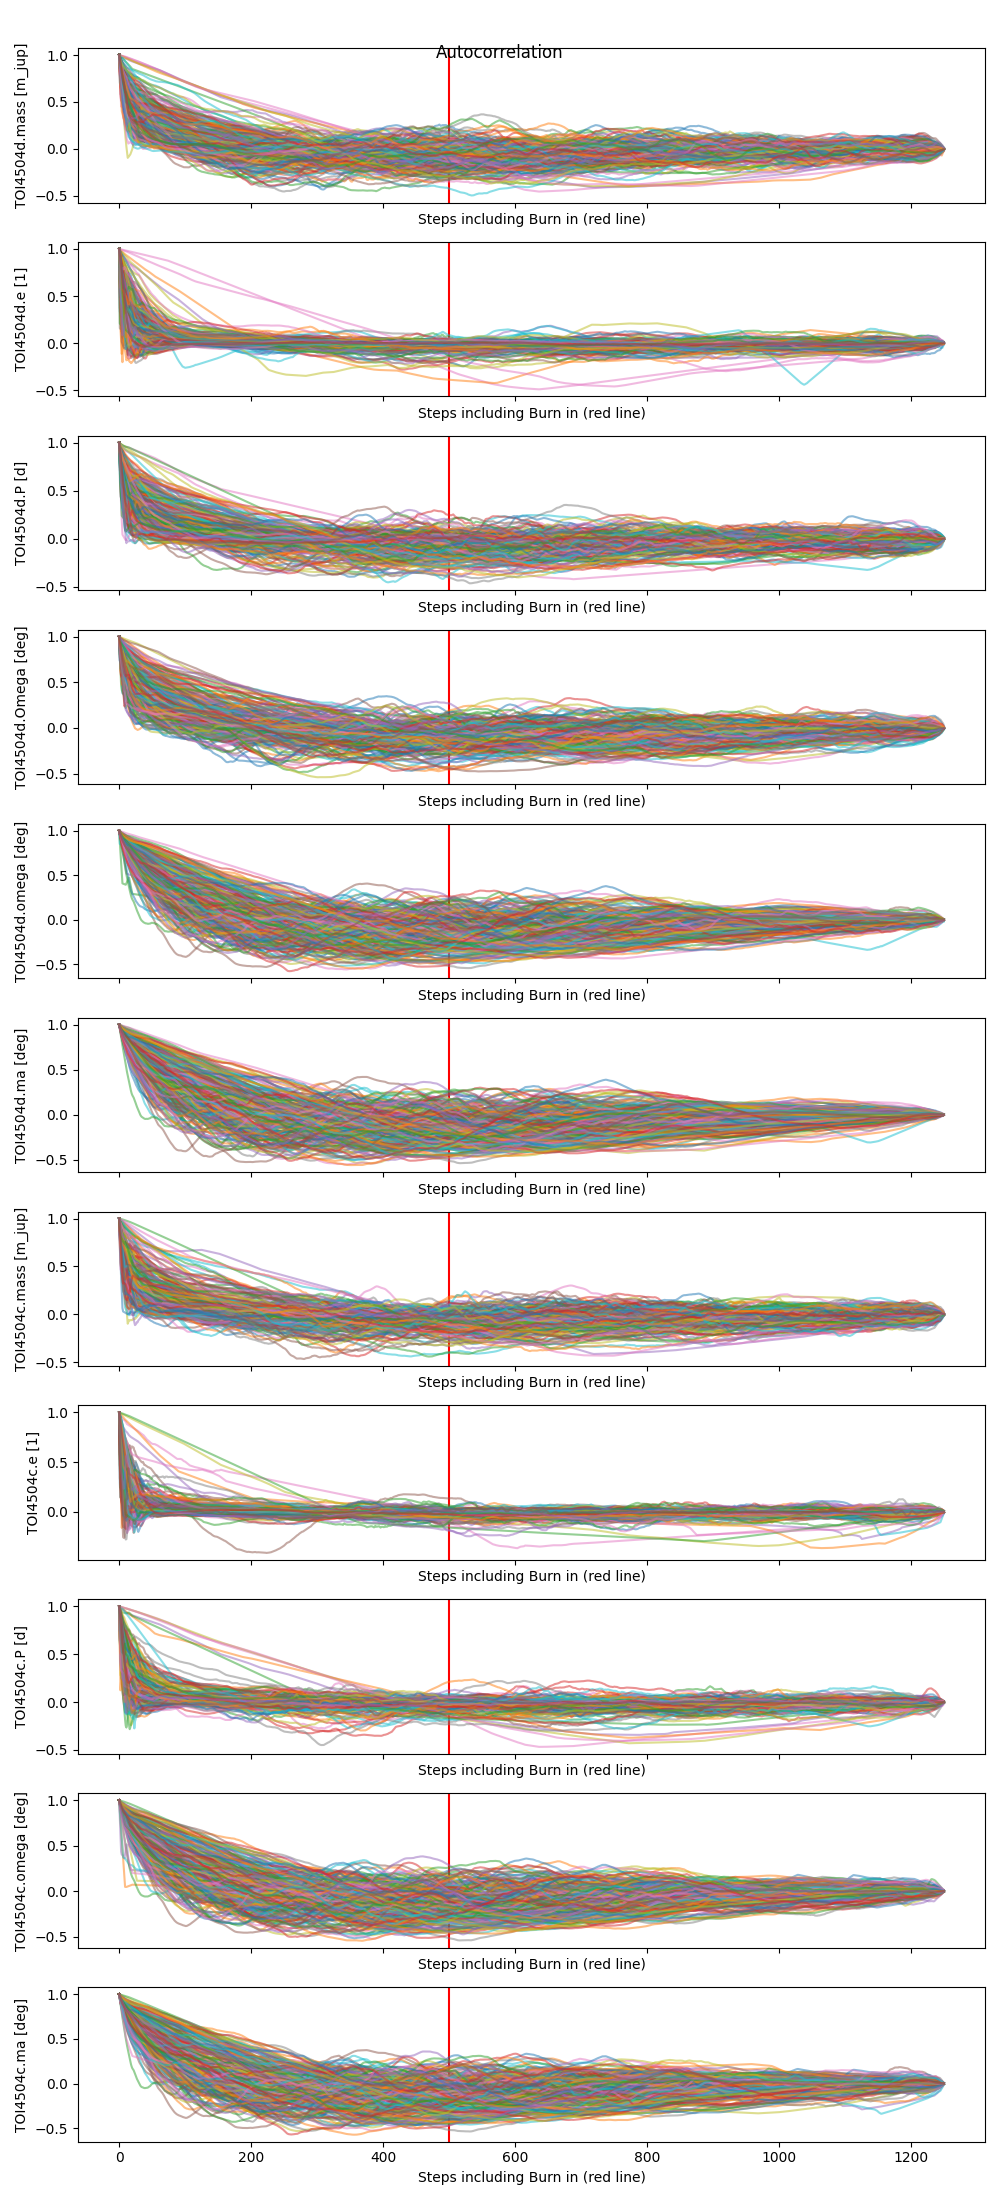
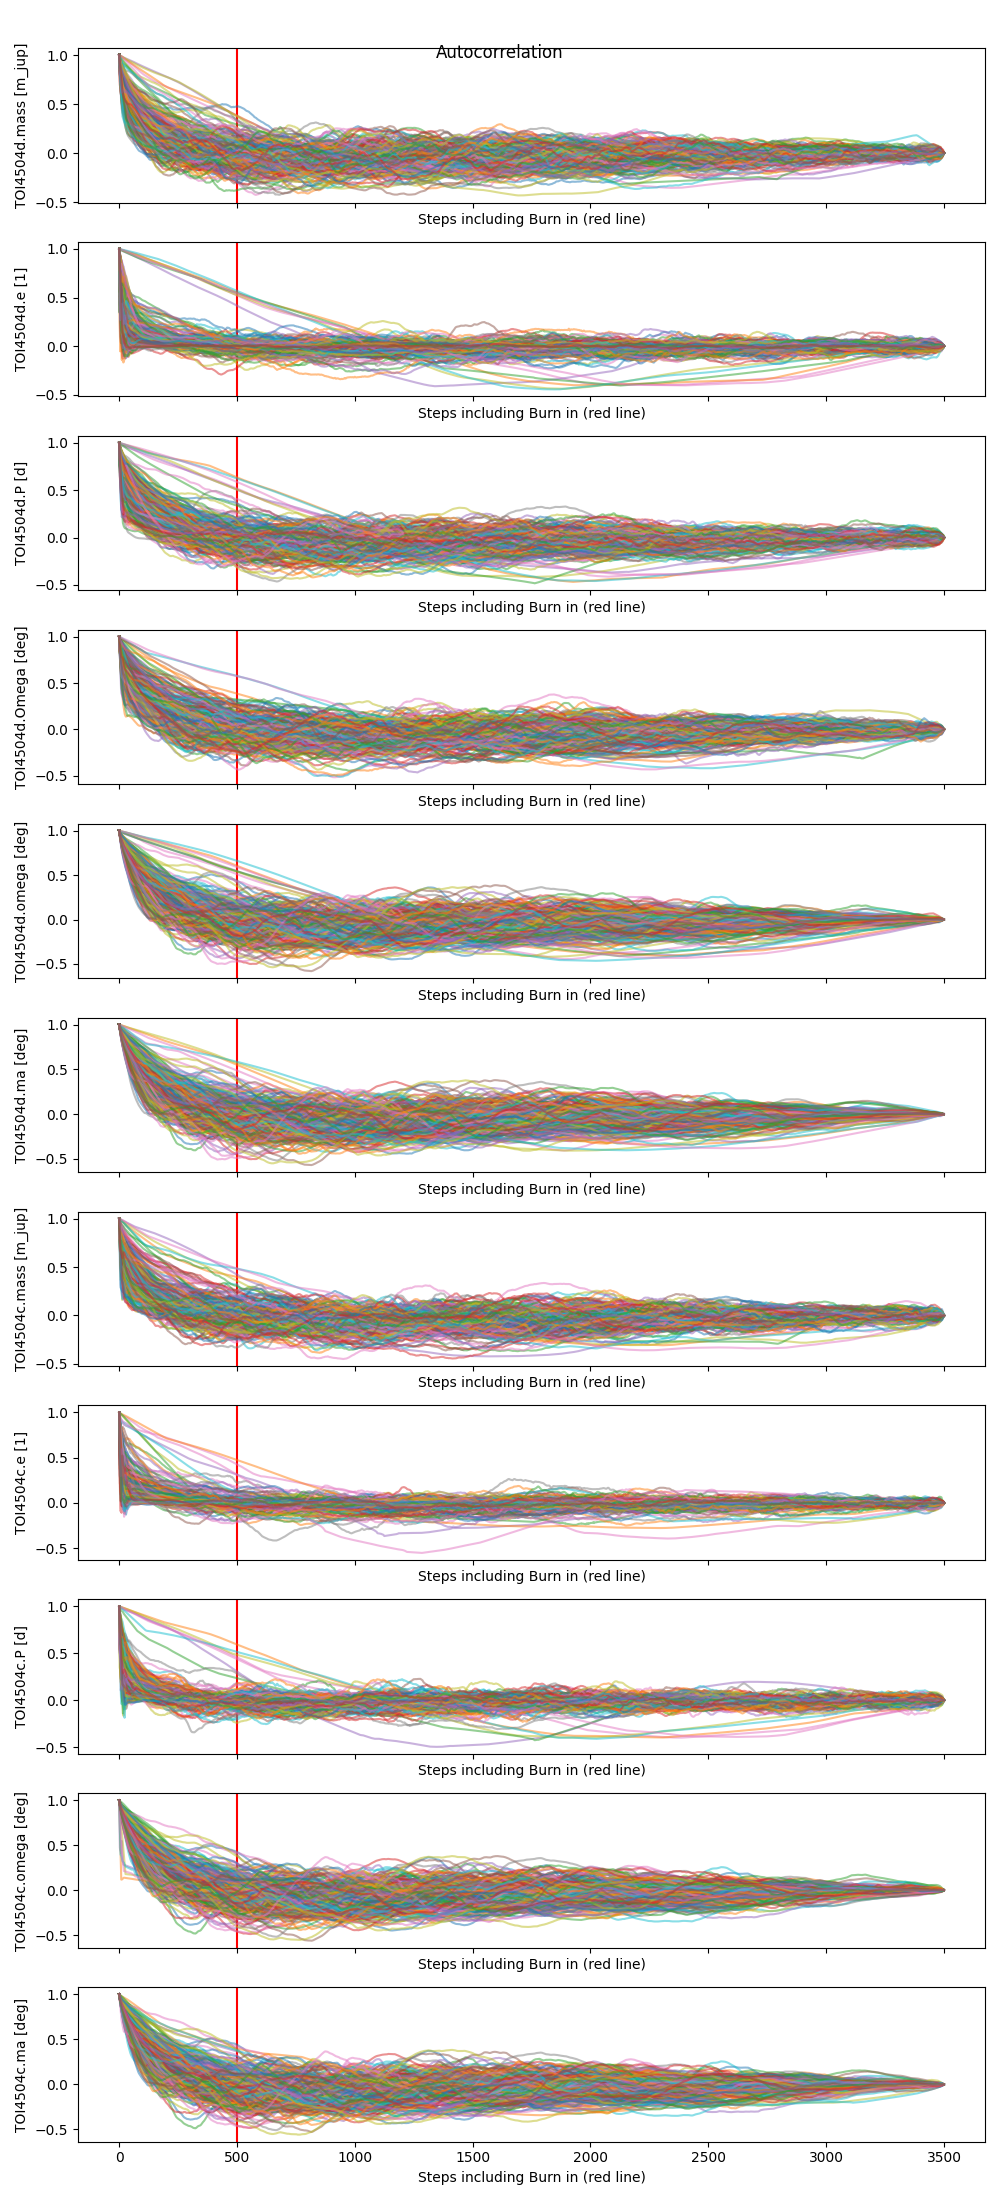
0.5.6 Fitting TOI-4504

diff --git a/src/run_curvesim.py b/src/run_curvesim.py
@@ -22,7 +22,7 @@
 from curvesimulator import CurveSimulator
 
 def main():
-    curvesimulation = CurveSimulator(config_file="../configurations/Sim/TOI-4504_SIM_X041.ini")
+    curvesimulation = CurveSimulator(config_file="../configurations/Sim/TOI-4504_SIM_X042.ini")
     # curvesimulation = CurveSimulator(config_file="../configurations/TOI-4504/TOI-4504_SIM_X042.ini")
     print(curvesimulation)
 
